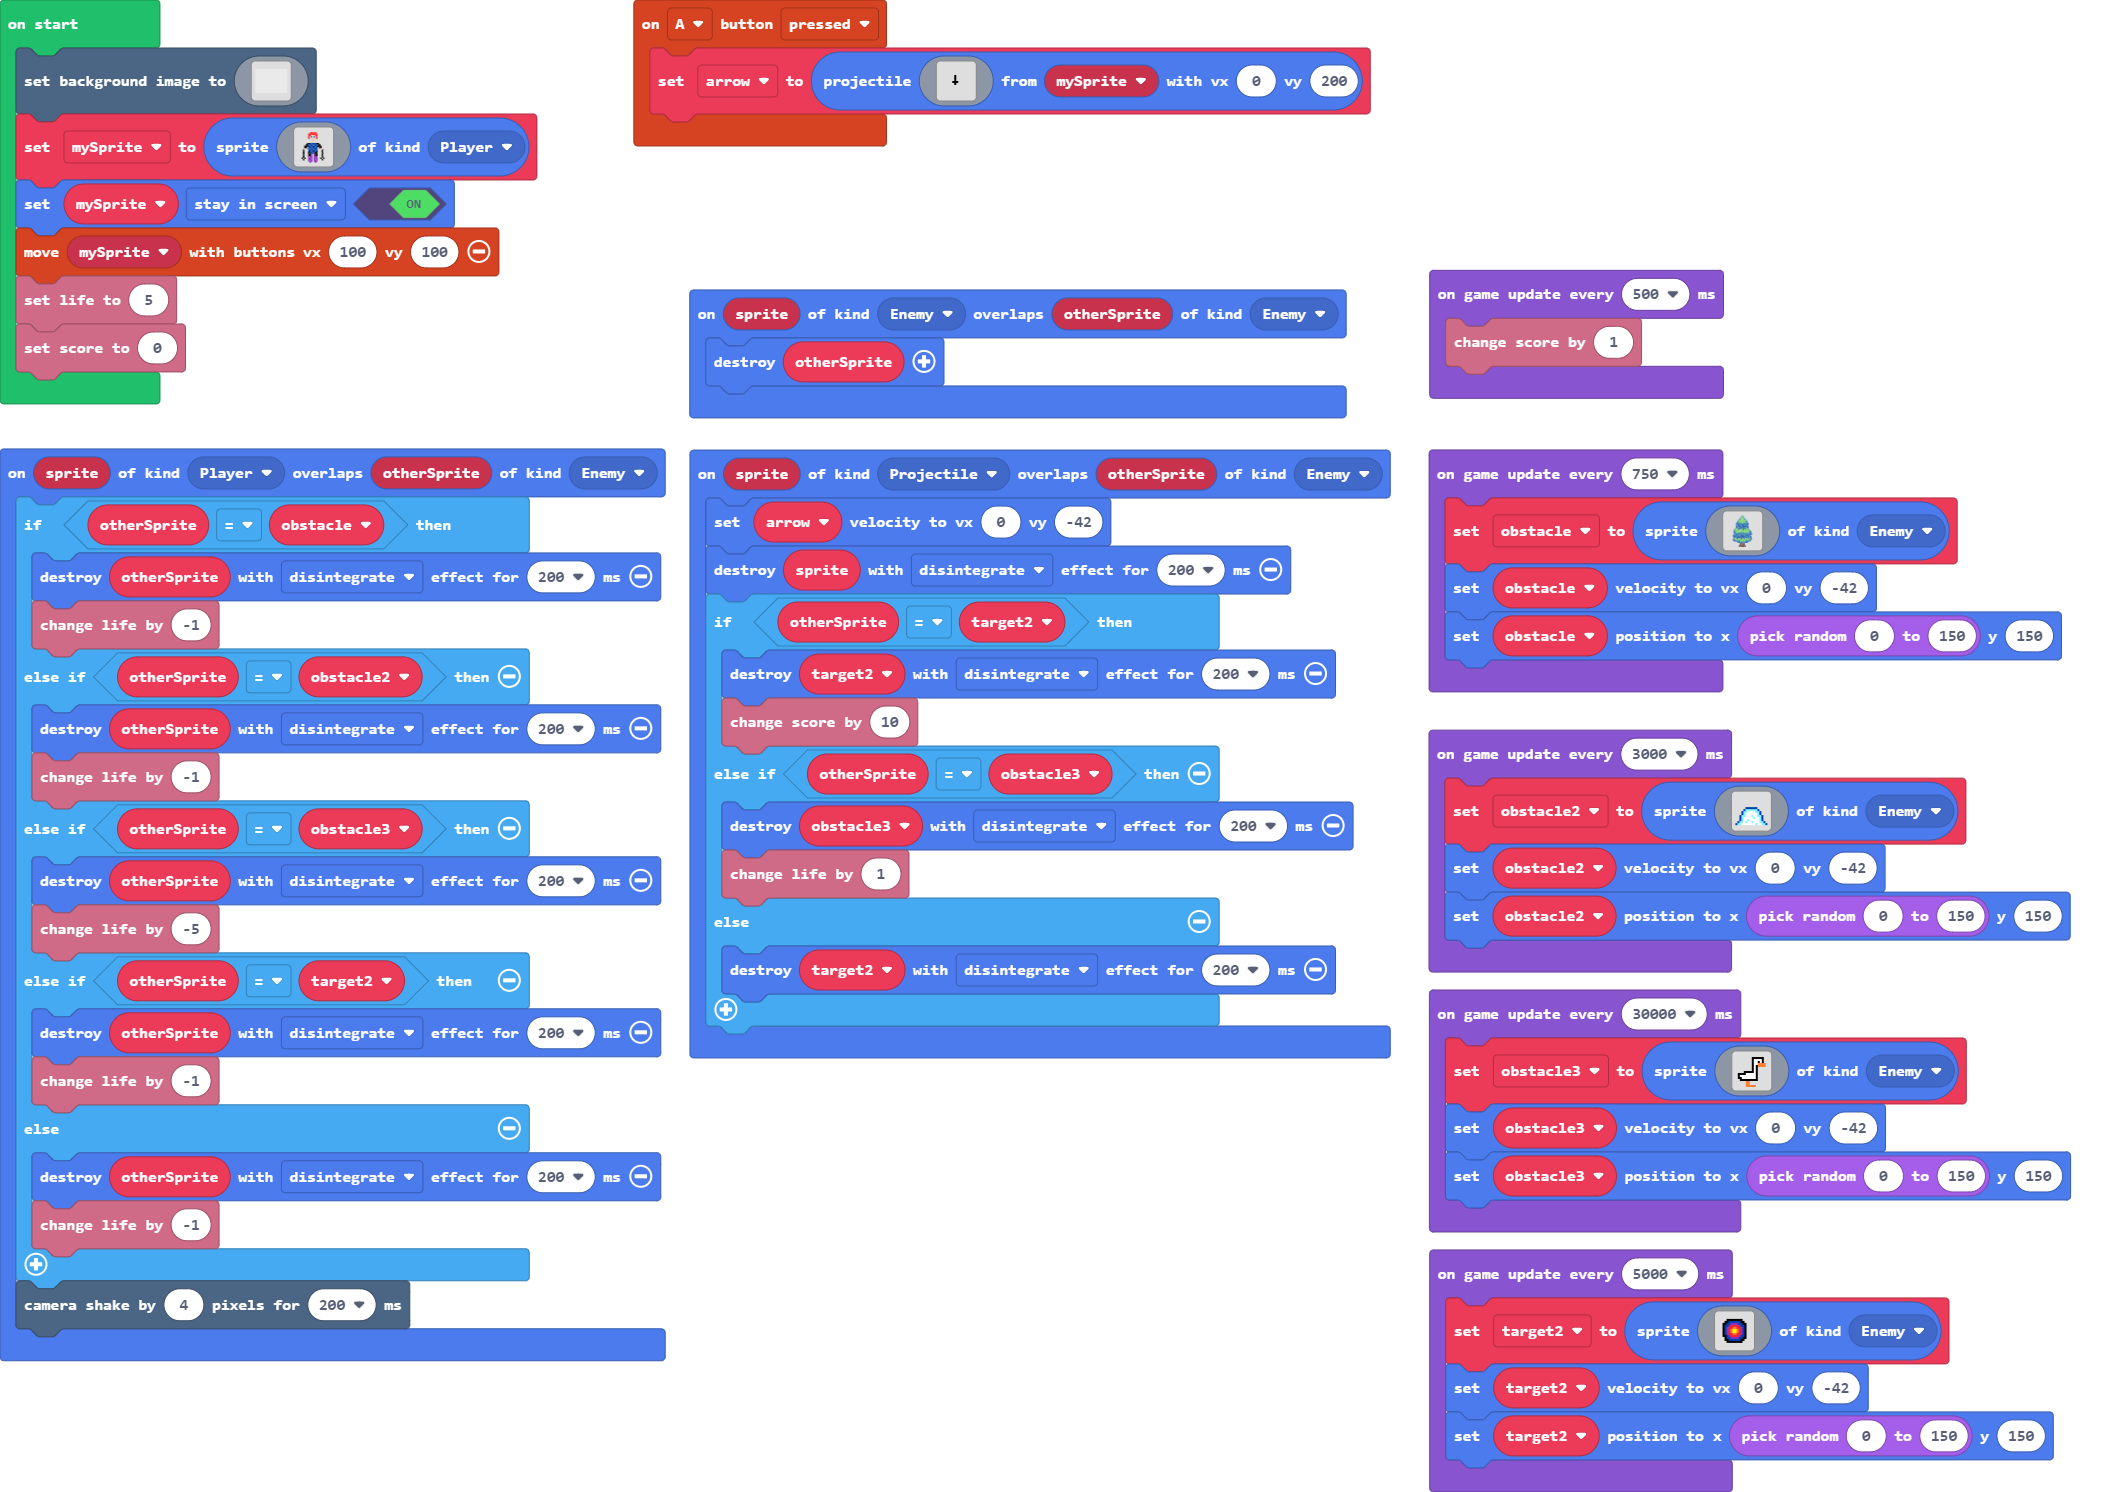
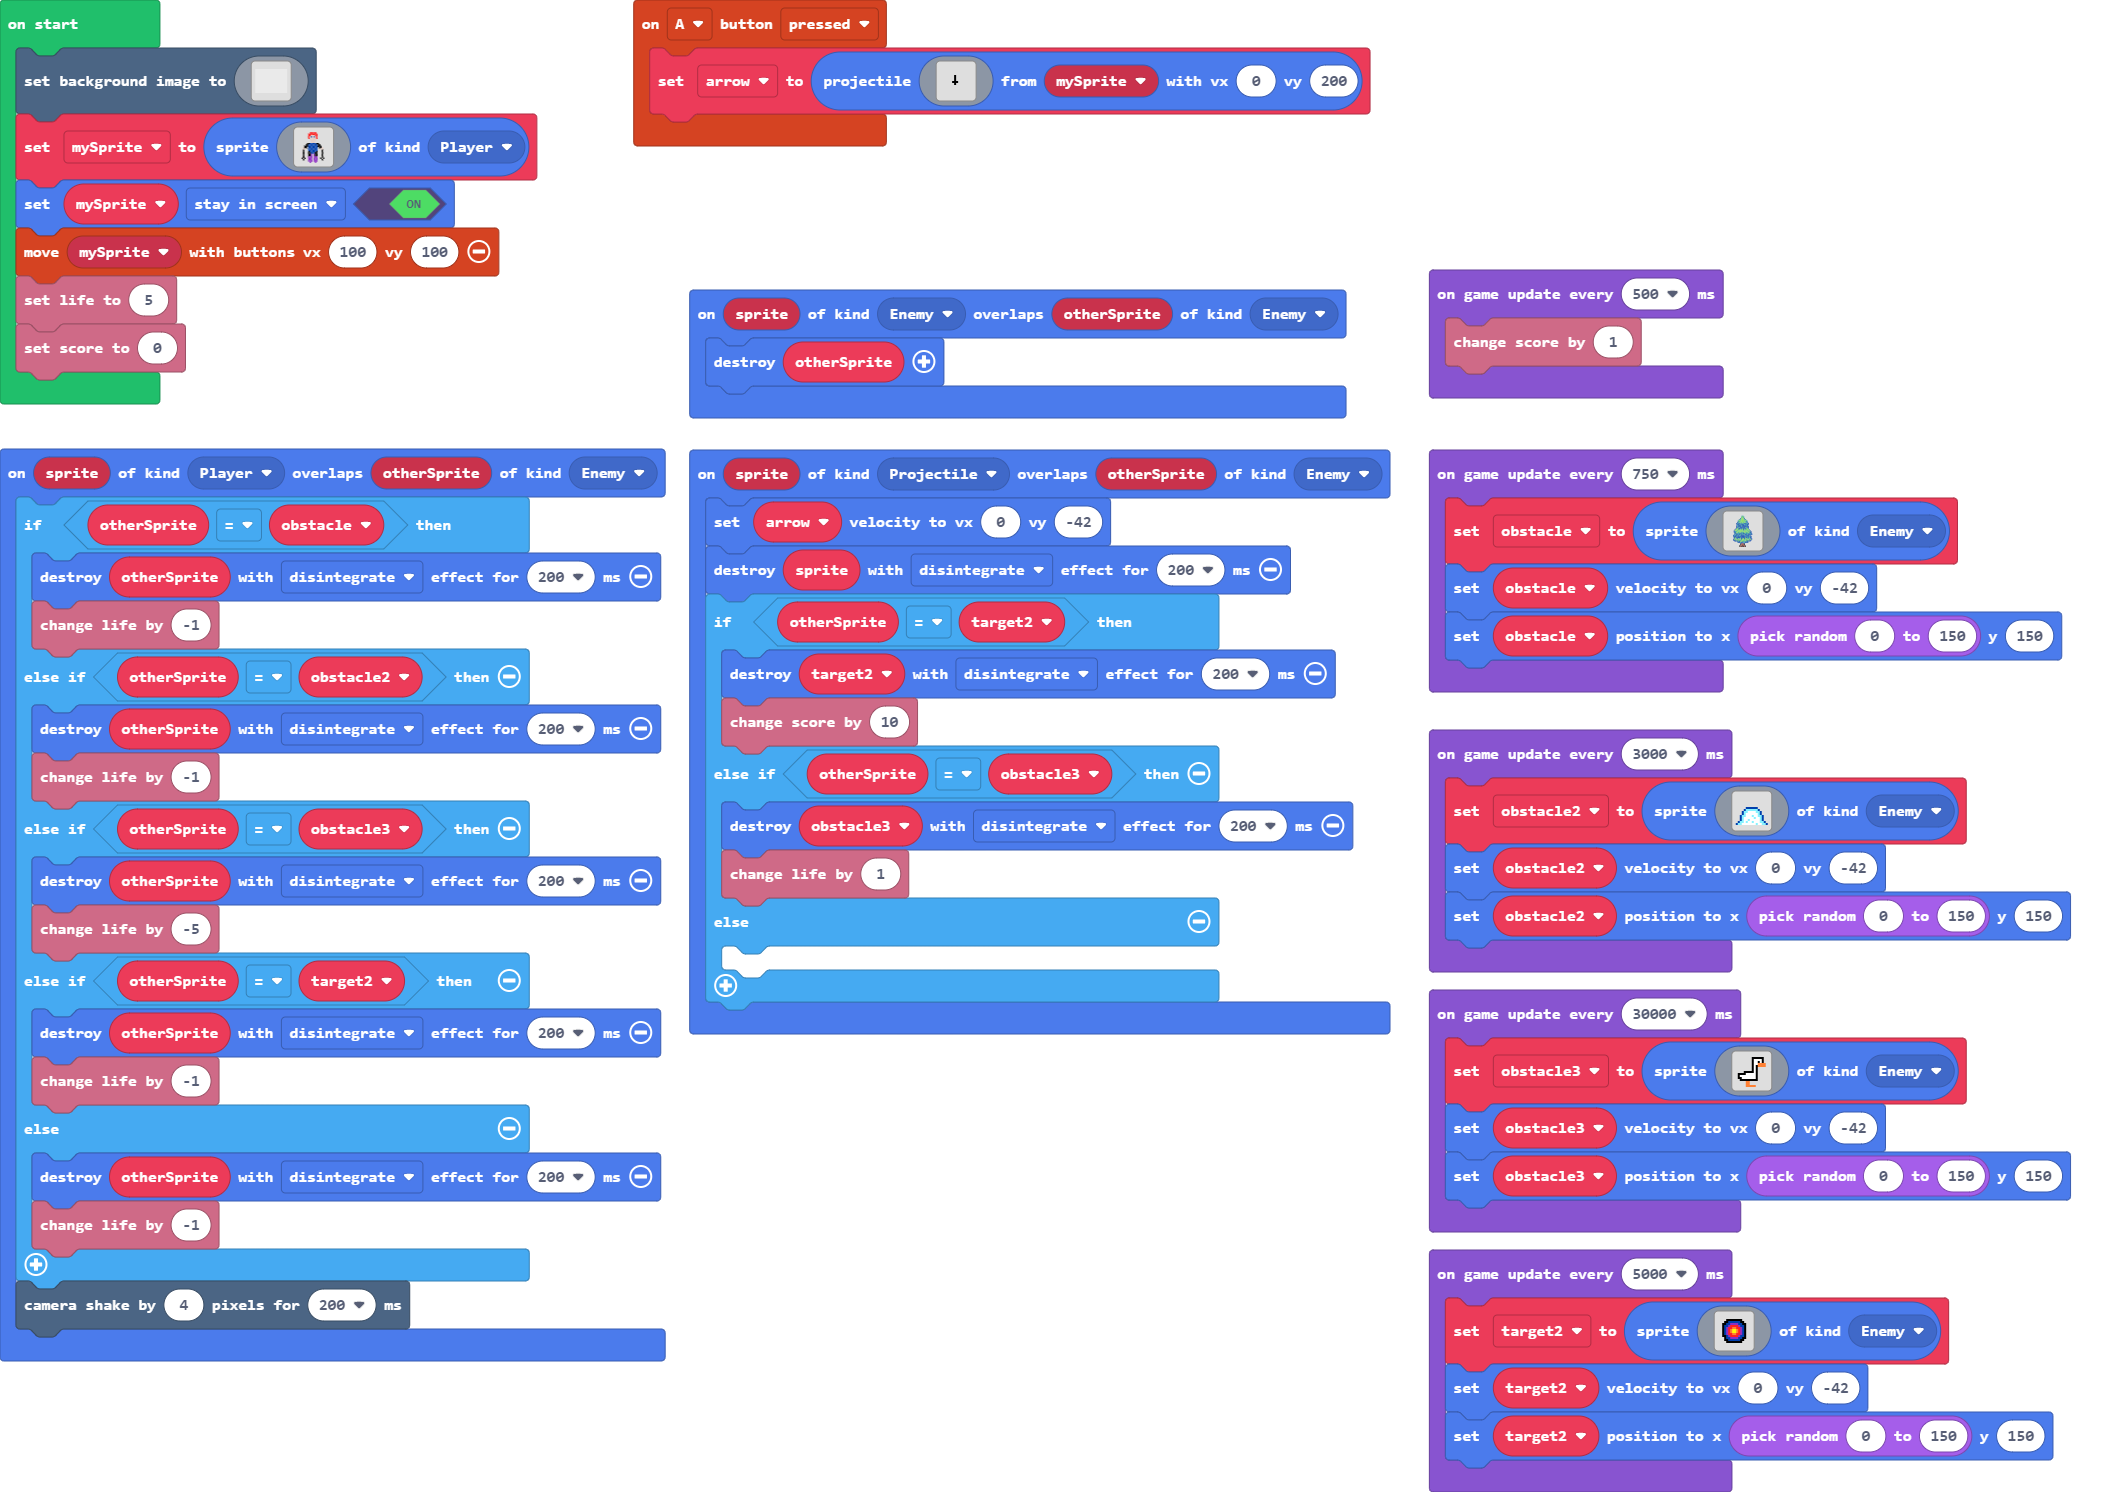
Update main.blocks, main.ts

Changed region(s): [[0.3109, 0.6166, 0.6528, 0.7091]]

diff --git a/main.ts b/main.ts
@@ -37,7 +37,7 @@ sprites.onOverlap(SpriteKind.Projectile, SpriteKind.Enemy, function (sprite, oth
         obstacle3.destroy(effects.disintegrate, 200)
         info.changeLifeBy(1)
     } else {
-        target2.destroy(effects.disintegrate, 200)
+    	
     }
 })
 sprites.onOverlap(SpriteKind.Player, SpriteKind.Enemy, function (sprite, otherSprite) {
